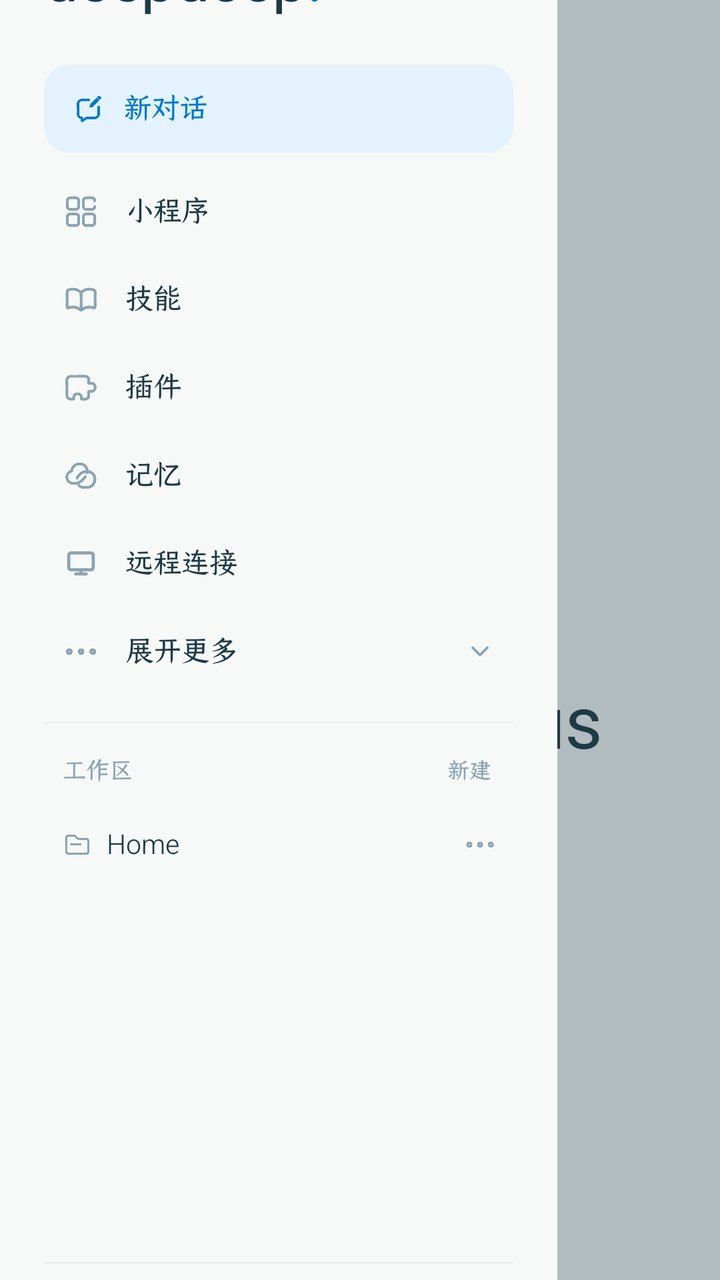
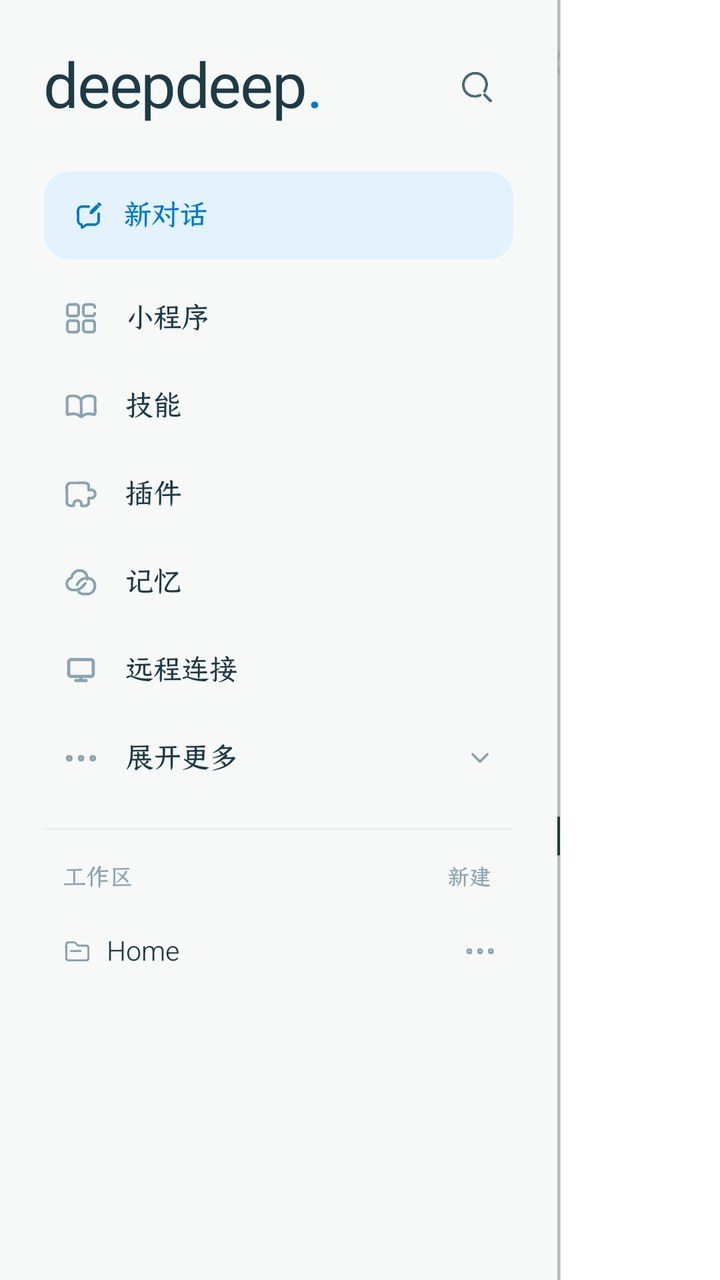
docs: 视频移入预览，合并 UI 展示

diff --git a/docs/media/SHOTS.md b/docs/media/SHOTS.md
@@ -28,11 +28,11 @@ docs/media/
 | `deepdeep-monitor.mp4` | Agent 轮询场馆 | https://github.com/user-attachments/assets/148208b2-11de-4ea5-a3a0-0b0378e6df34 |
 | `deepdeep-phone-control.mp4` | 悬浮窗操作其他应用 | https://github.com/user-attachments/assets/f20ce2ce-26e9-4f7c-8696-dea81d0a74e1 |
 | `deepdeep-miniapp.mp4` | 生成打卡待办小程序 | https://github.com/user-attachments/assets/fd8eba76-f19e-477a-95c7-8c1d1609198d |
-| `deepdeep-scan.mp4` | 扫码与跳转 | https://github.com/user-attachments/assets/6783519b-5f93-46d6-ad54-86a8e1350016 |
+| `deepdeep-scan.mp4` | 扫码与跳转 | https://github.com/user-attachments/assets/0fcfc455-4a06-4f74-ba69-26f27d341b57 |
 | `deepdeep-remote.mp4` | 连接电脑 DSH | https://github.com/user-attachments/assets/b712257f-c700-43c3-ac4e-6fd829c6e24a |
-| `deepdeep-overlay-voice.mp4` | 悬浮语音输入（备用） | https://github.com/user-attachments/assets/32ce705b-dd43-4677-8509-ea7ad7fcf49b |
+| `deepdeep-overlay-voice.mp4` | 悬浮语音输入 | https://github.com/user-attachments/assets/32ce705b-dd43-4677-8509-ea7ad7fcf49b |
 
-这些是 720×1280、H.264、无音轨的压缩版，单个 0.3–1.8MB。原始录屏保留在 Release：
+这些是 720×1280、H.264、无音轨的压缩版，单个 0.3–2.3MB。原始录屏保留在 Release：
 
 ```text
 https://github.com/Sadami3066/DeepDeep/releases/tag/demo-20261109
@@ -42,11 +42,12 @@ https://github.com/Sadami3066/DeepDeep/releases/tag/demo-20261109
 
 | 文件 | 用途 |
 |---|---|
-| `shots/home.jpg` | README 预览：主界面 |
-| `shots/drawer.jpg` | README 预览、功能卡片：抽屉与插件入口 |
-| `shots/providers.jpg` | README 预览、功能卡片：模型服务商 |
-| `shots/settings.jpg` | 功能卡片：权限与运行环境 |
-| `shots/personalization.jpg` | 功能卡片：记忆与个性化 |
+| `shots/home.jpg` | UI 展示：主界面 |
+| `shots/drawer.jpg` | UI 展示：抽屉 |
+| `shots/providers.jpg` | UI 展示：模型服务商 |
+| `shots/settings.jpg` | UI 展示：权限与运行环境 |
+| `shots/personalization.jpg` | UI 展示：个性化 |
+| `shots/ui-showcase.png` | UI 展示：五张截图合并为一张 |
 
 ## 重新生成
 
